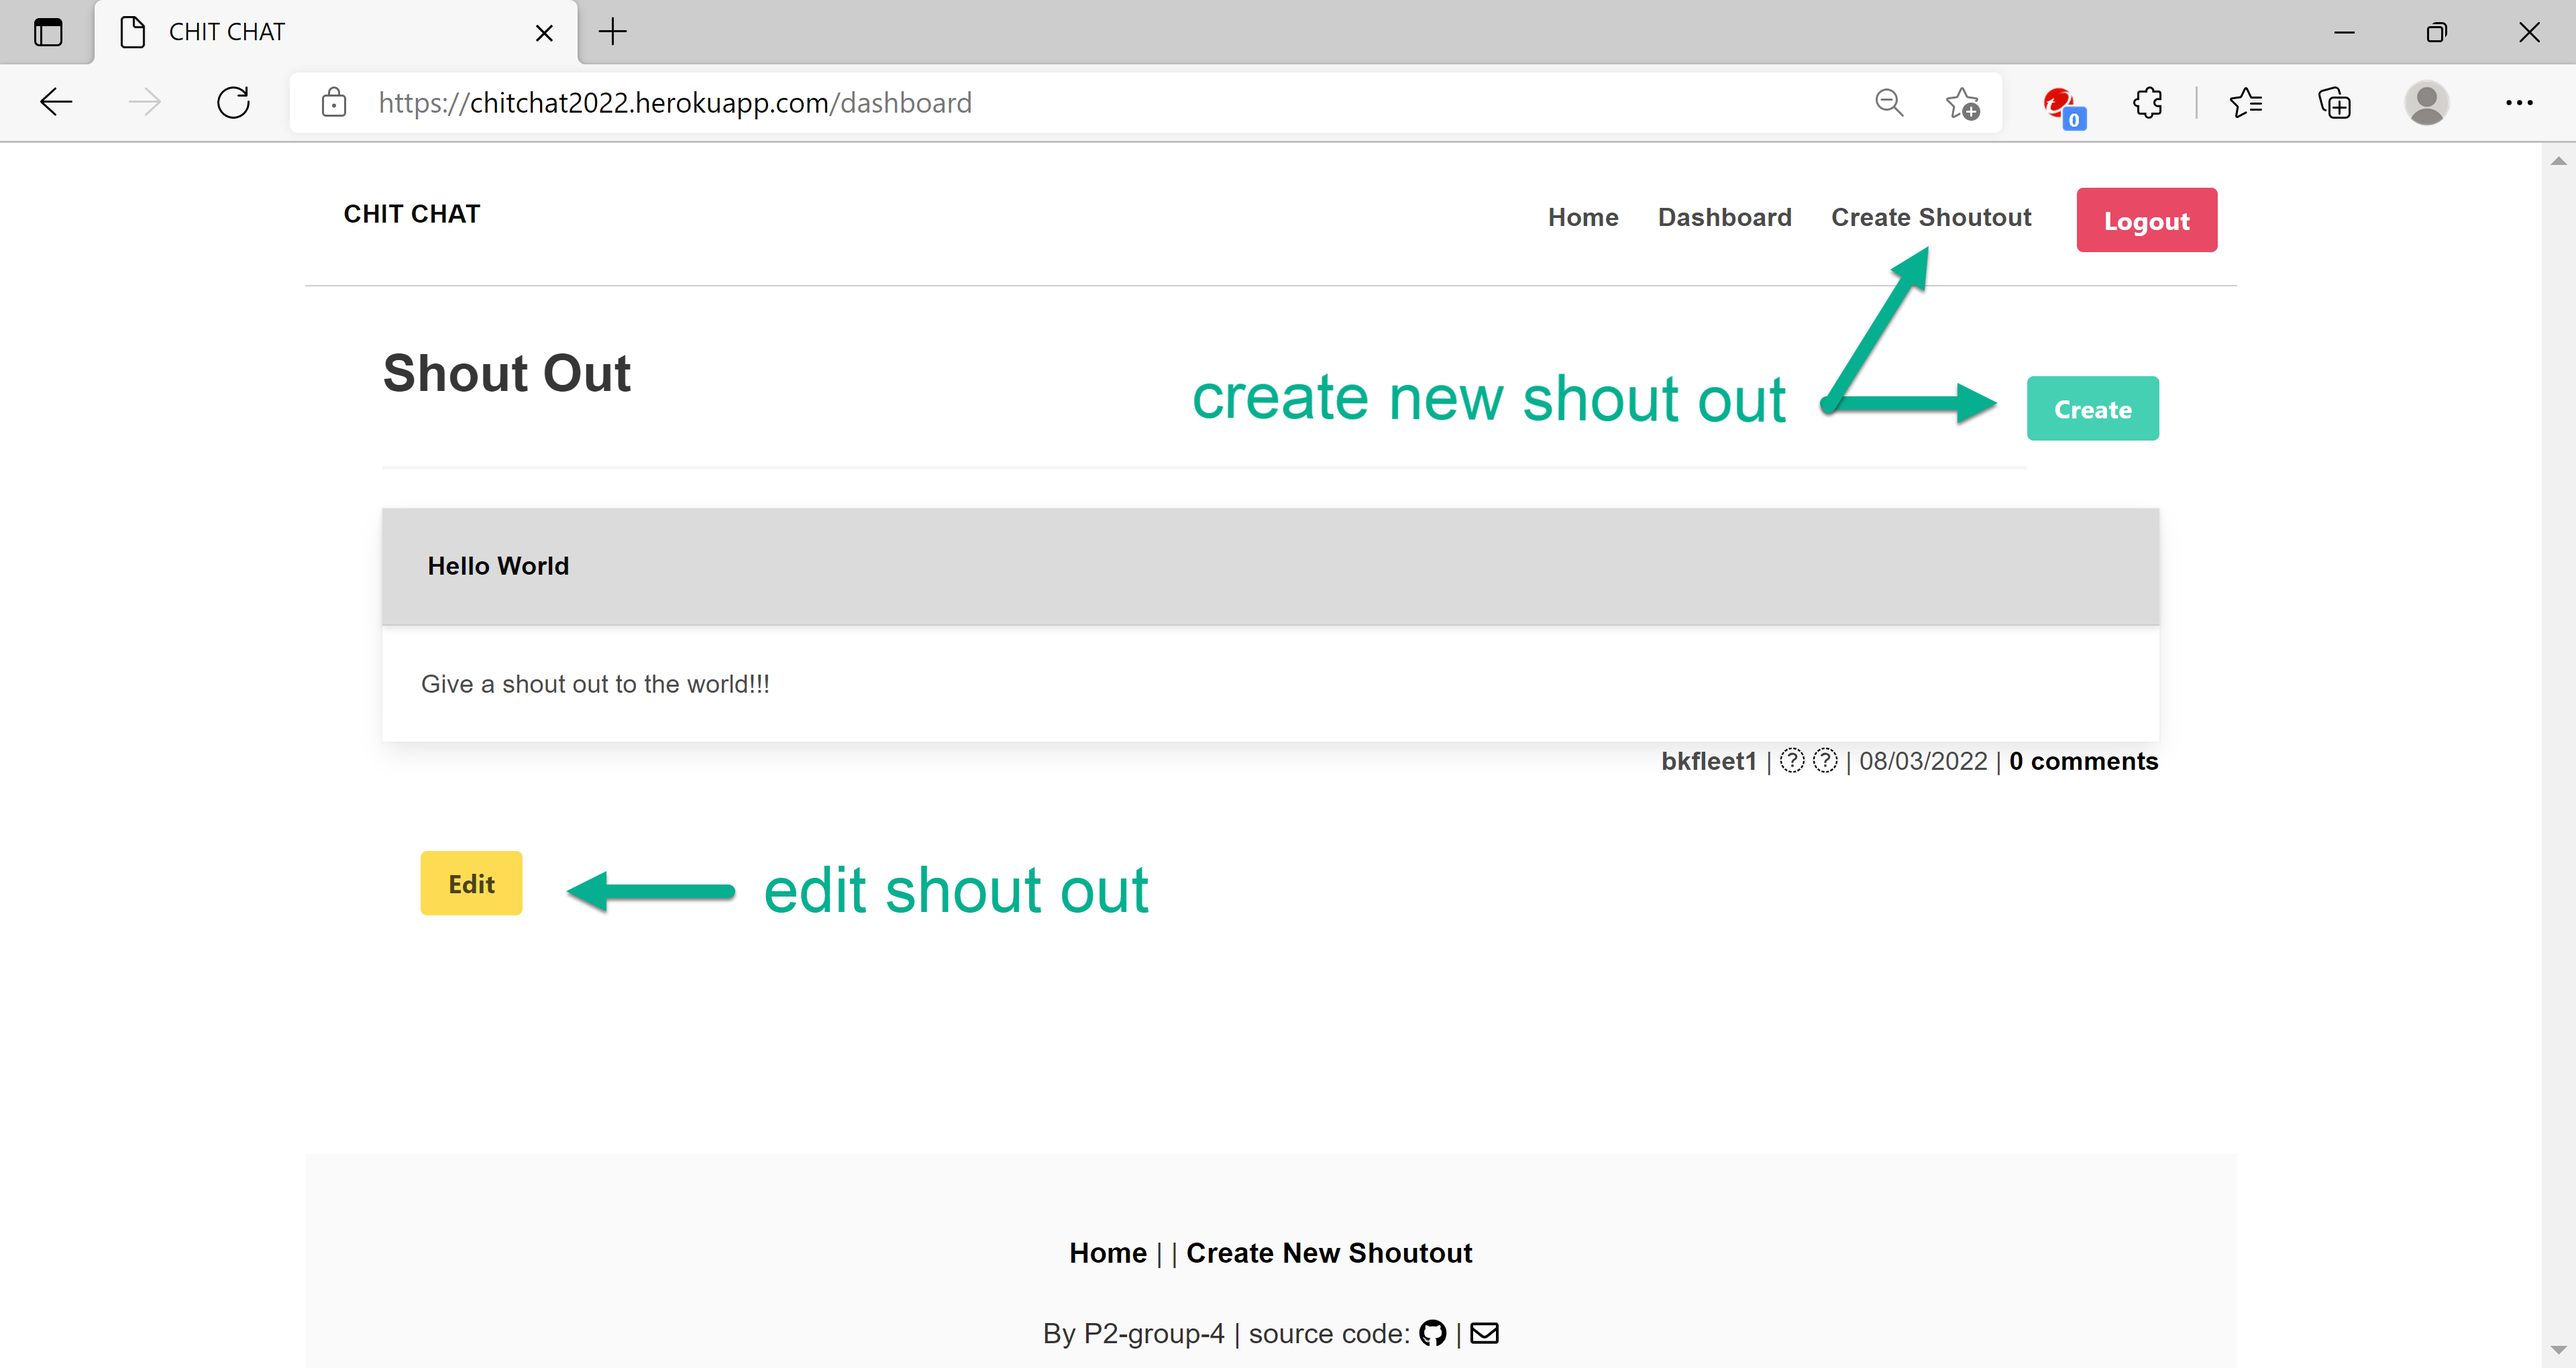
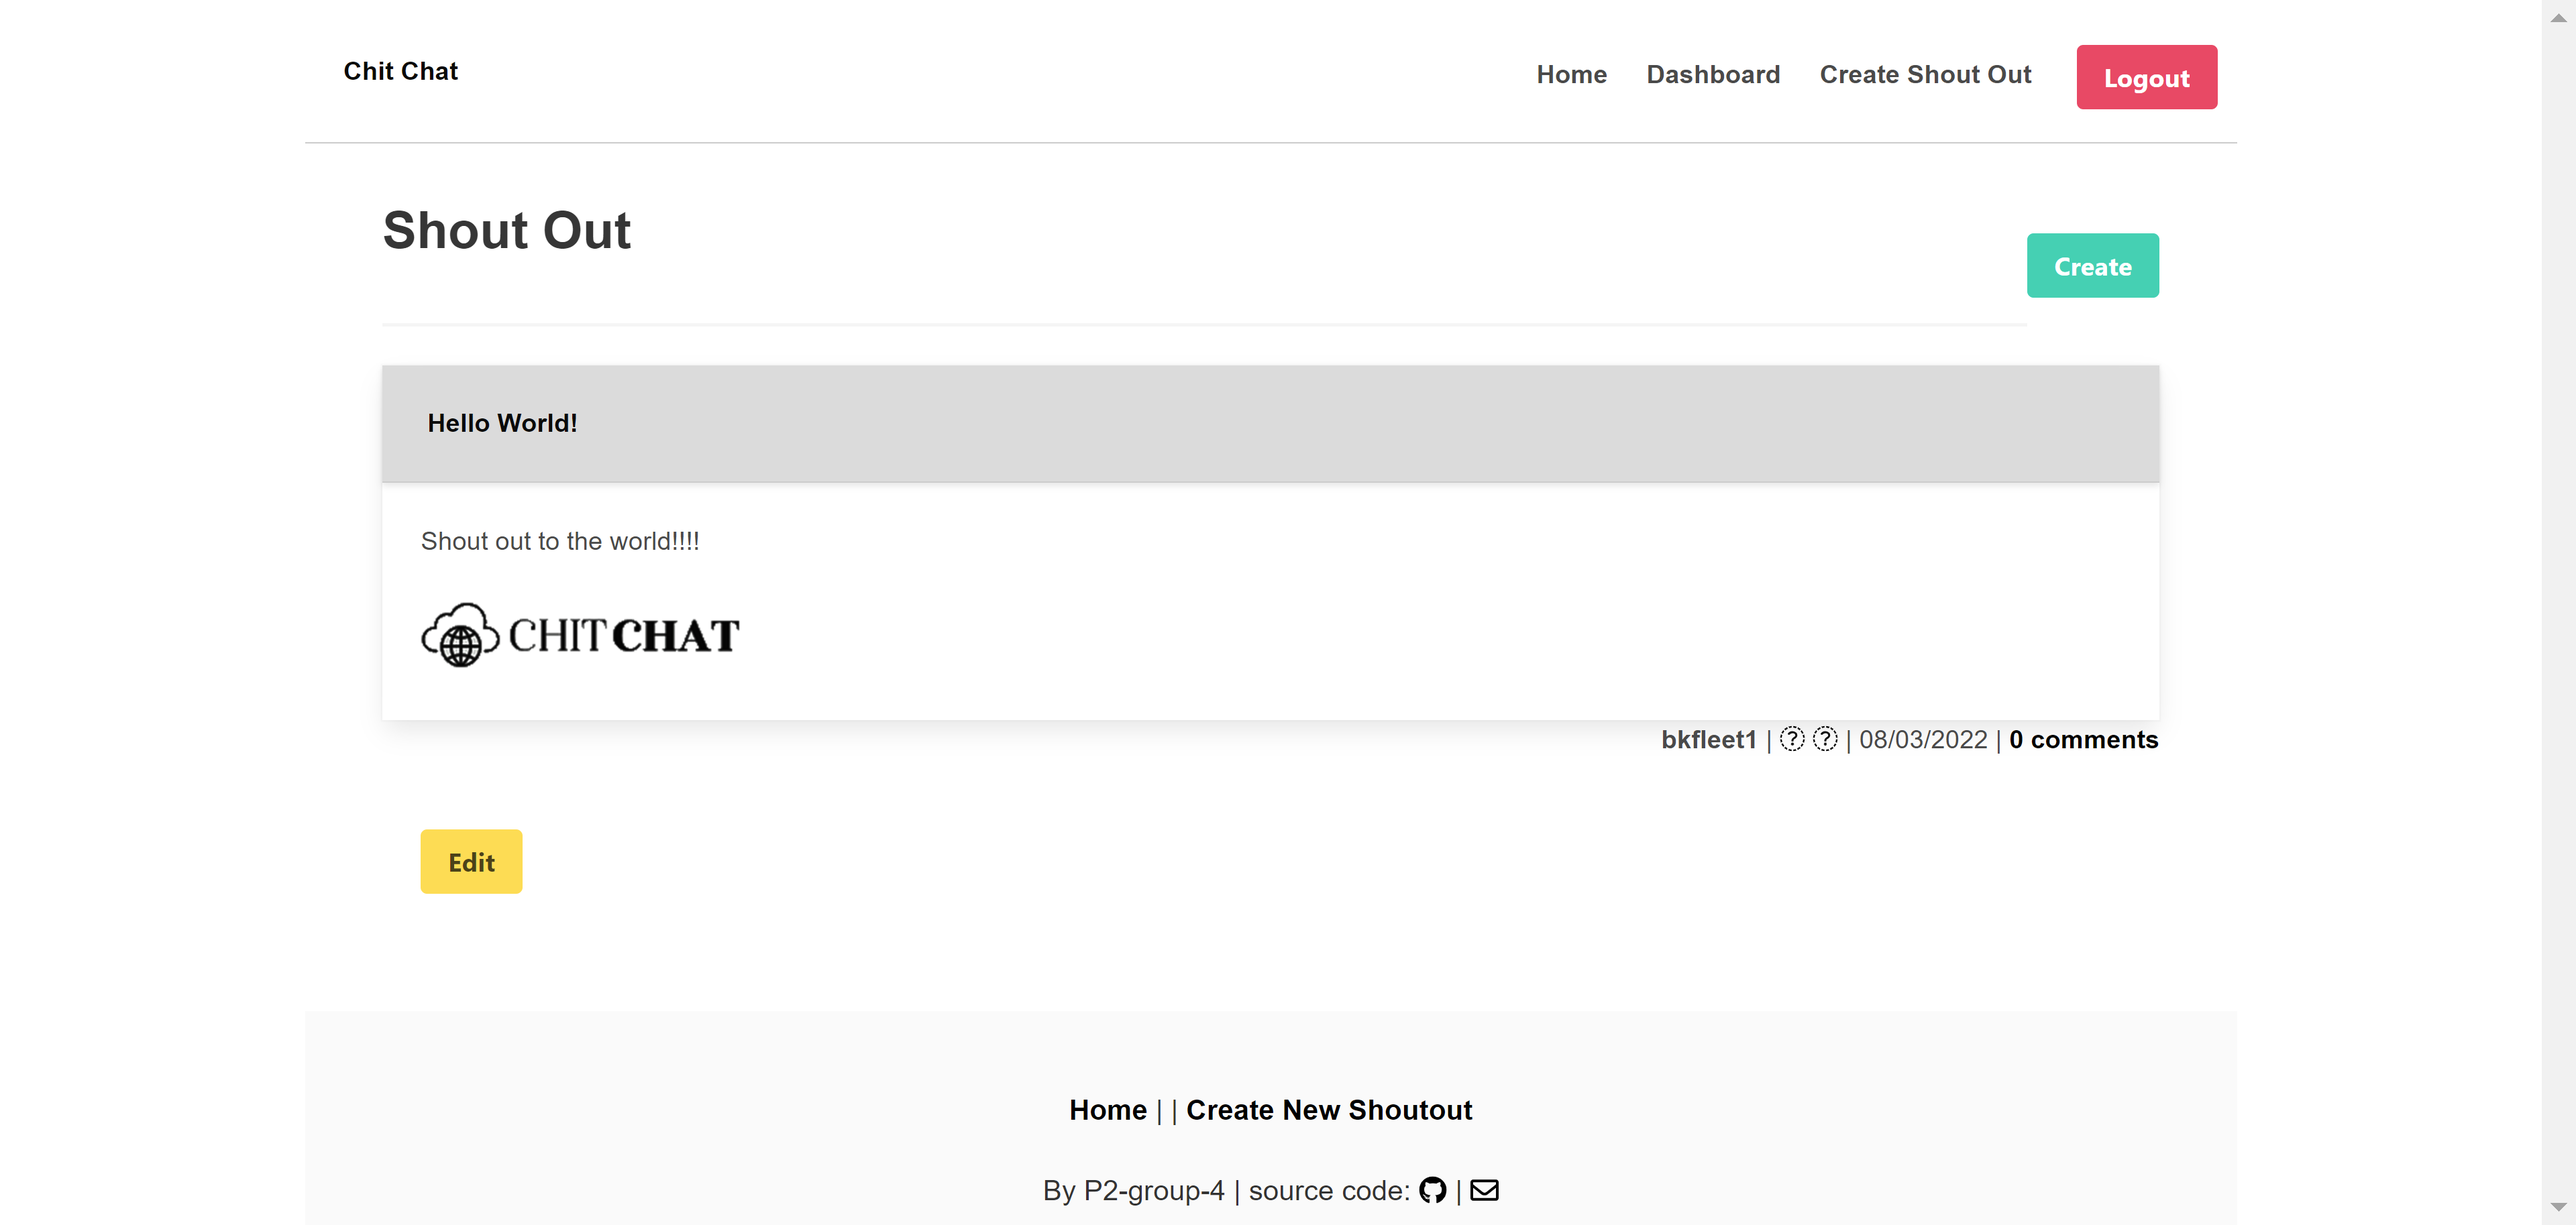
readme update

diff --git a/README.md b/README.md
@@ -31,13 +31,13 @@ Chit Chat is a mobile-responsive, social media platform on which users can post 
 The following resources were used in the development of this project.
 > - Bcrypt (version 5.0.1);
 > - Bootstrap (version 5.1.3);
+> - Cloudinary (https://cloudinary.com/)
 > - Connect Session Sequelize (version 7.1.2);
 > - Dotenv (version 16.0.0);
 > - Express (version 4.17.3);
 > - Express Handlebars (version 6.0.2);
 > - Express Session (version 1.17.2);
 > - Handlebars (version 4.7.7);
-> - Multer (version 1.4.4);
 > - MySQL Server (version 8.0.28);
 > - MySQL2 (version 2.3.3); and
 > - Sequelize (version 6.17.0)
@@ -102,9 +102,15 @@ Once a user is authenticated, the application will present the 'dashboard' scree
 ![Dashboard](/public/images/screen4.png)
 
 #### Create Shout Out
-The user can create a new Shout Out by clicking on the **create** button or the **create Shout Out** link in the upper right-hand corner of the user's **dashboard**. The user can add a title and message in their Shout Out and click the **create** button to post their message. The image below illustrates the Shout Out creation screen.
+The user can create a new Shout Out by clicking on the **create** button or the **create Shout Out** link in the upper right-hand corner of the user's **dashboard**. The user can add a title, message, and **upload image** in their Shout Out and click the **create** button to post their message. The image below illustrates the Shout Out creation screen.
 
-![Create Shout Out](/public/images/screen5.png)
+![Create Shout Out](/public/images/screen5a.png)
+
+![Create Shout Out Screen](/public/images/screen5b.png)
+
+Click the **upload image** button to launch the image attachment function.
+![Upload Image](/public/images/screen5c.png)
+
 
 #### Edit & Delete a Shout Out
 In the dashboard view, a user can edit and delete one of their shouts by clicking the **edit** button located below a post. The application present the user with their previous post in edit-mode. The user can chose to modify and **save** their post, **delete** the post, or exit the function by clicking the **dashboard** button in the upper right-hand corner of the screen. 
